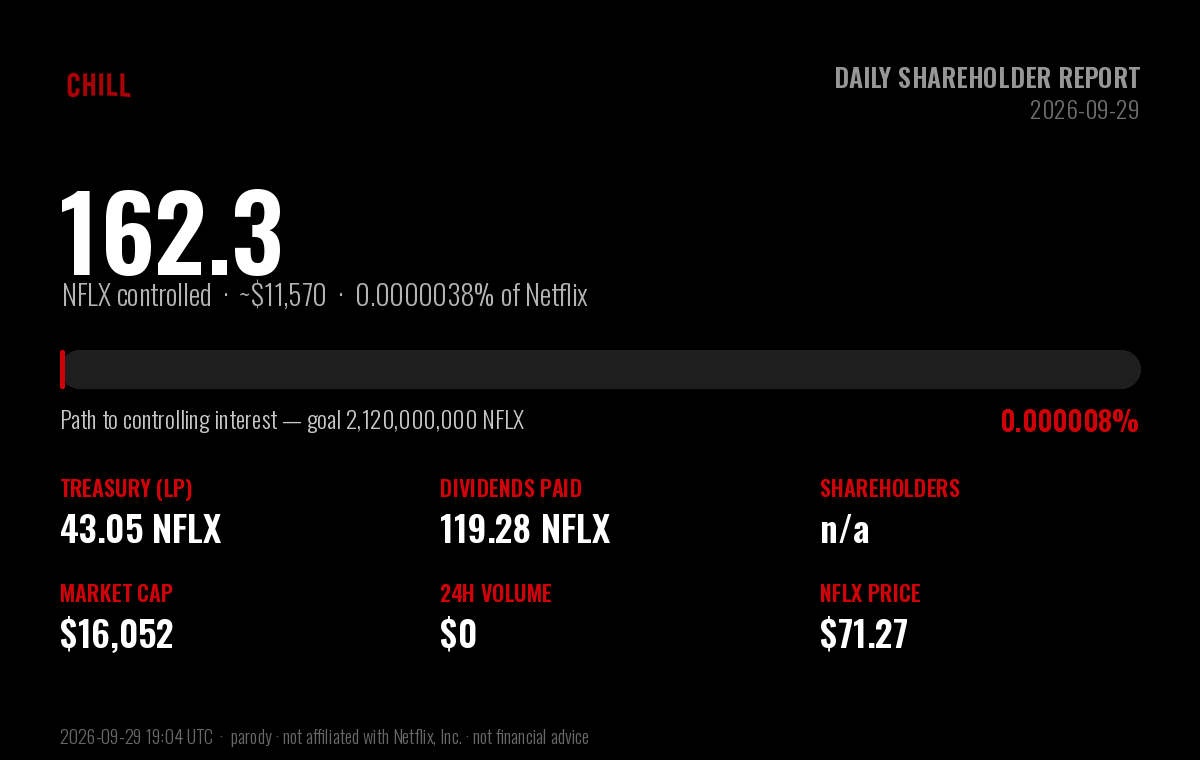
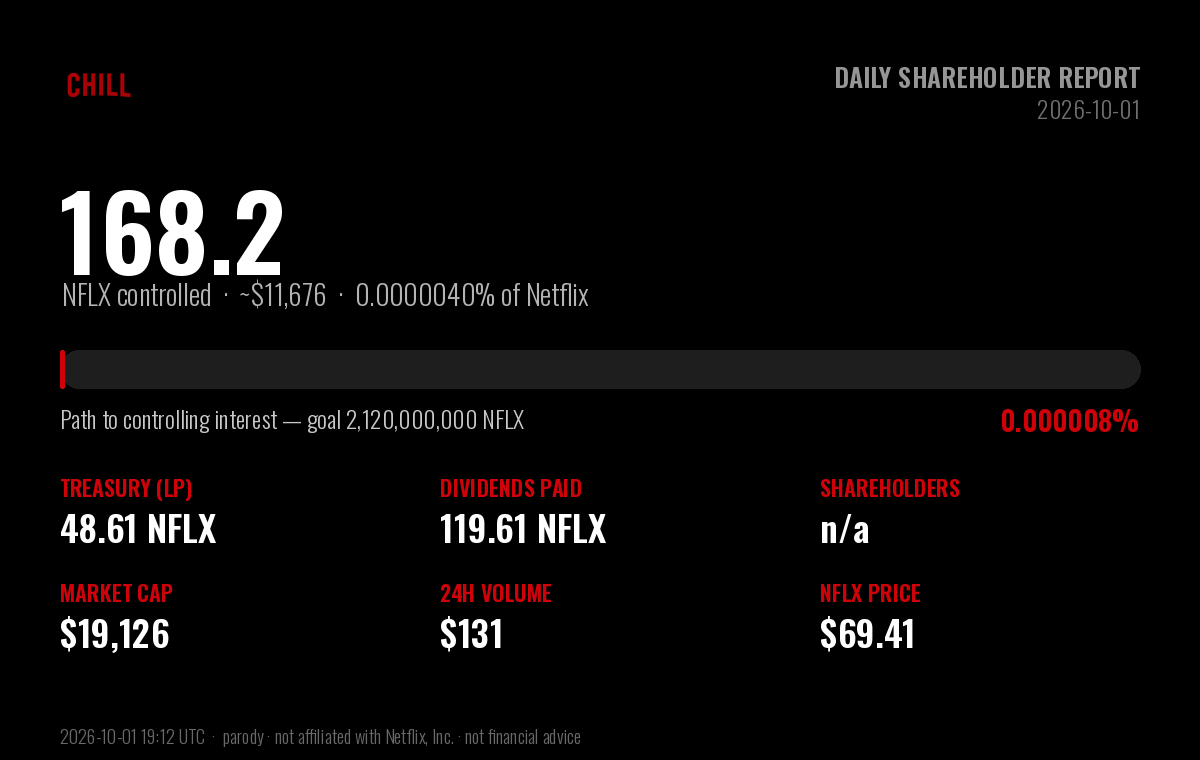
chore: daily $CHILL shareholder report (2026-10-01)

diff --git a/daily-holder-report/README.md b/daily-holder-report/README.md
@@ -1,6 +1,6 @@
 # $CHILL — Daily Shareholder Report
 
-### Netflix and Chill · Report to Shareholders · 2026-09-29
+### Netflix and Chill · Report to Shareholders · 2026-10-01
 
 > **Corporate objective:** acquire a controlling interest in Netflix (NFLX).
 > Netflix has **4,220,000,000** shares outstanding; a majority
@@ -13,53 +13,53 @@
 
 | Metric | Value |
 |---|---|
-| **NFLX under $CHILL control** | **162.33 NFLX** (~$11,570) |
-| Stake in Netflix | 0.000003847% of shares outstanding |
-| Progress to controlling interest | 0.0000077% of 2,120,000,000 |
-| Shares remaining to majority | 2,119,999,838 NFLX |
+| **NFLX under $CHILL control** | **168.22 NFLX** (~$11,676) |
+| Stake in Netflix | 0.000003986% of shares outstanding |
+| Progress to controlling interest | 0.0000079% of 2,120,000,000 |
+| Shares remaining to majority | 2,119,999,832 NFLX |
 
 ## Balance sheet — NFLX holdings
 
 | Holding | NFLX | USD |
 |---|---|---|
-| Treasury (protocol-owned liquidity) | 43.05 | $3,069 |
-| Dividends distributed to shareholders | 119.28 | $8,501 |
-| **Total NFLX controlled** | **162.33** | **$11,570** |
+| Treasury (protocol-owned liquidity) | 48.61 | $3,374 |
+| Dividends distributed to shareholders | 119.61 | $8,302 |
+| **Total NFLX controlled** | **168.22** | **$11,676** |
 
 ## Last 24 hours
 
 | Metric | Value |
 |---|---|
-| Trading volume | 0.00 NFLX (~$0) |
-| Net NFLX accumulated | 0.00 NFLX |
-| Dividends generated | 0.0000 NFLX |
-| Transactions | 0 (0 buys / 0 sells) |
-| $CHILL price change | -11.6% |
+| Trading volume | 1.89 NFLX (~$131) |
+| Net NFLX accumulated | -1.29 NFLX |
+| Dividends generated | 0.0189 NFLX |
+| Transactions | 2 (1 buys / 1 sells) |
+| $CHILL price change | -7.5% |
 
 ## Shareholder & market data
 
 | Metric | Value |
 |---|---|
 | Shareholders of record | n/a |
-| Lifetime unique participants | 1805 |
+| Lifetime unique participants | 1815 |
 | Shares outstanding ($CHILL) | 1,000,000,000 |
-| Market capitalization | $16,052 |
-| $CHILL price | $0.00001605 |
-| NFLX price | $71.27 |
-| Lifetime volume | 11,927.86 NFLX (~$850,143) |
-| Lifetime transactions | 8,549 (4,785 buys / 3,764 sells) |
-| Days since IPO (launch) | 72 |
+| Market capitalization | $19,126 |
+| $CHILL price | $0.00001913 |
+| NFLX price | $69.41 |
+| Lifetime volume | 11,961.19 NFLX (~$830,209) |
+| Lifetime transactions | 8,582 (4,804 buys / 3,778 sells) |
+| Days since IPO (launch) | 74 |
 
 ## Per-share metrics
 
 | Metric | Value |
 |---|---|
-| NFLX backing per 1M $CHILL | 0.162332 NFLX |
-| Dividends per 1M $CHILL | 0.119279 NFLX |
+| NFLX backing per 1M $CHILL | 0.168223 NFLX |
+| Dividends per 1M $CHILL | 0.119612 NFLX |
 
 ---
 
-*Report generated 2026-09-29 19:04 UTC · block 75,892,956 · data via the Sentry-Robinhood
+*Report generated 2026-10-01 19:12 UTC · block 77,615,777 · data via the Sentry-Robinhood
 subgraph and Robinhood Chain explorer.*
 
 **Disclaimer:** $CHILL is an independent, community-driven **parody** token. It is
